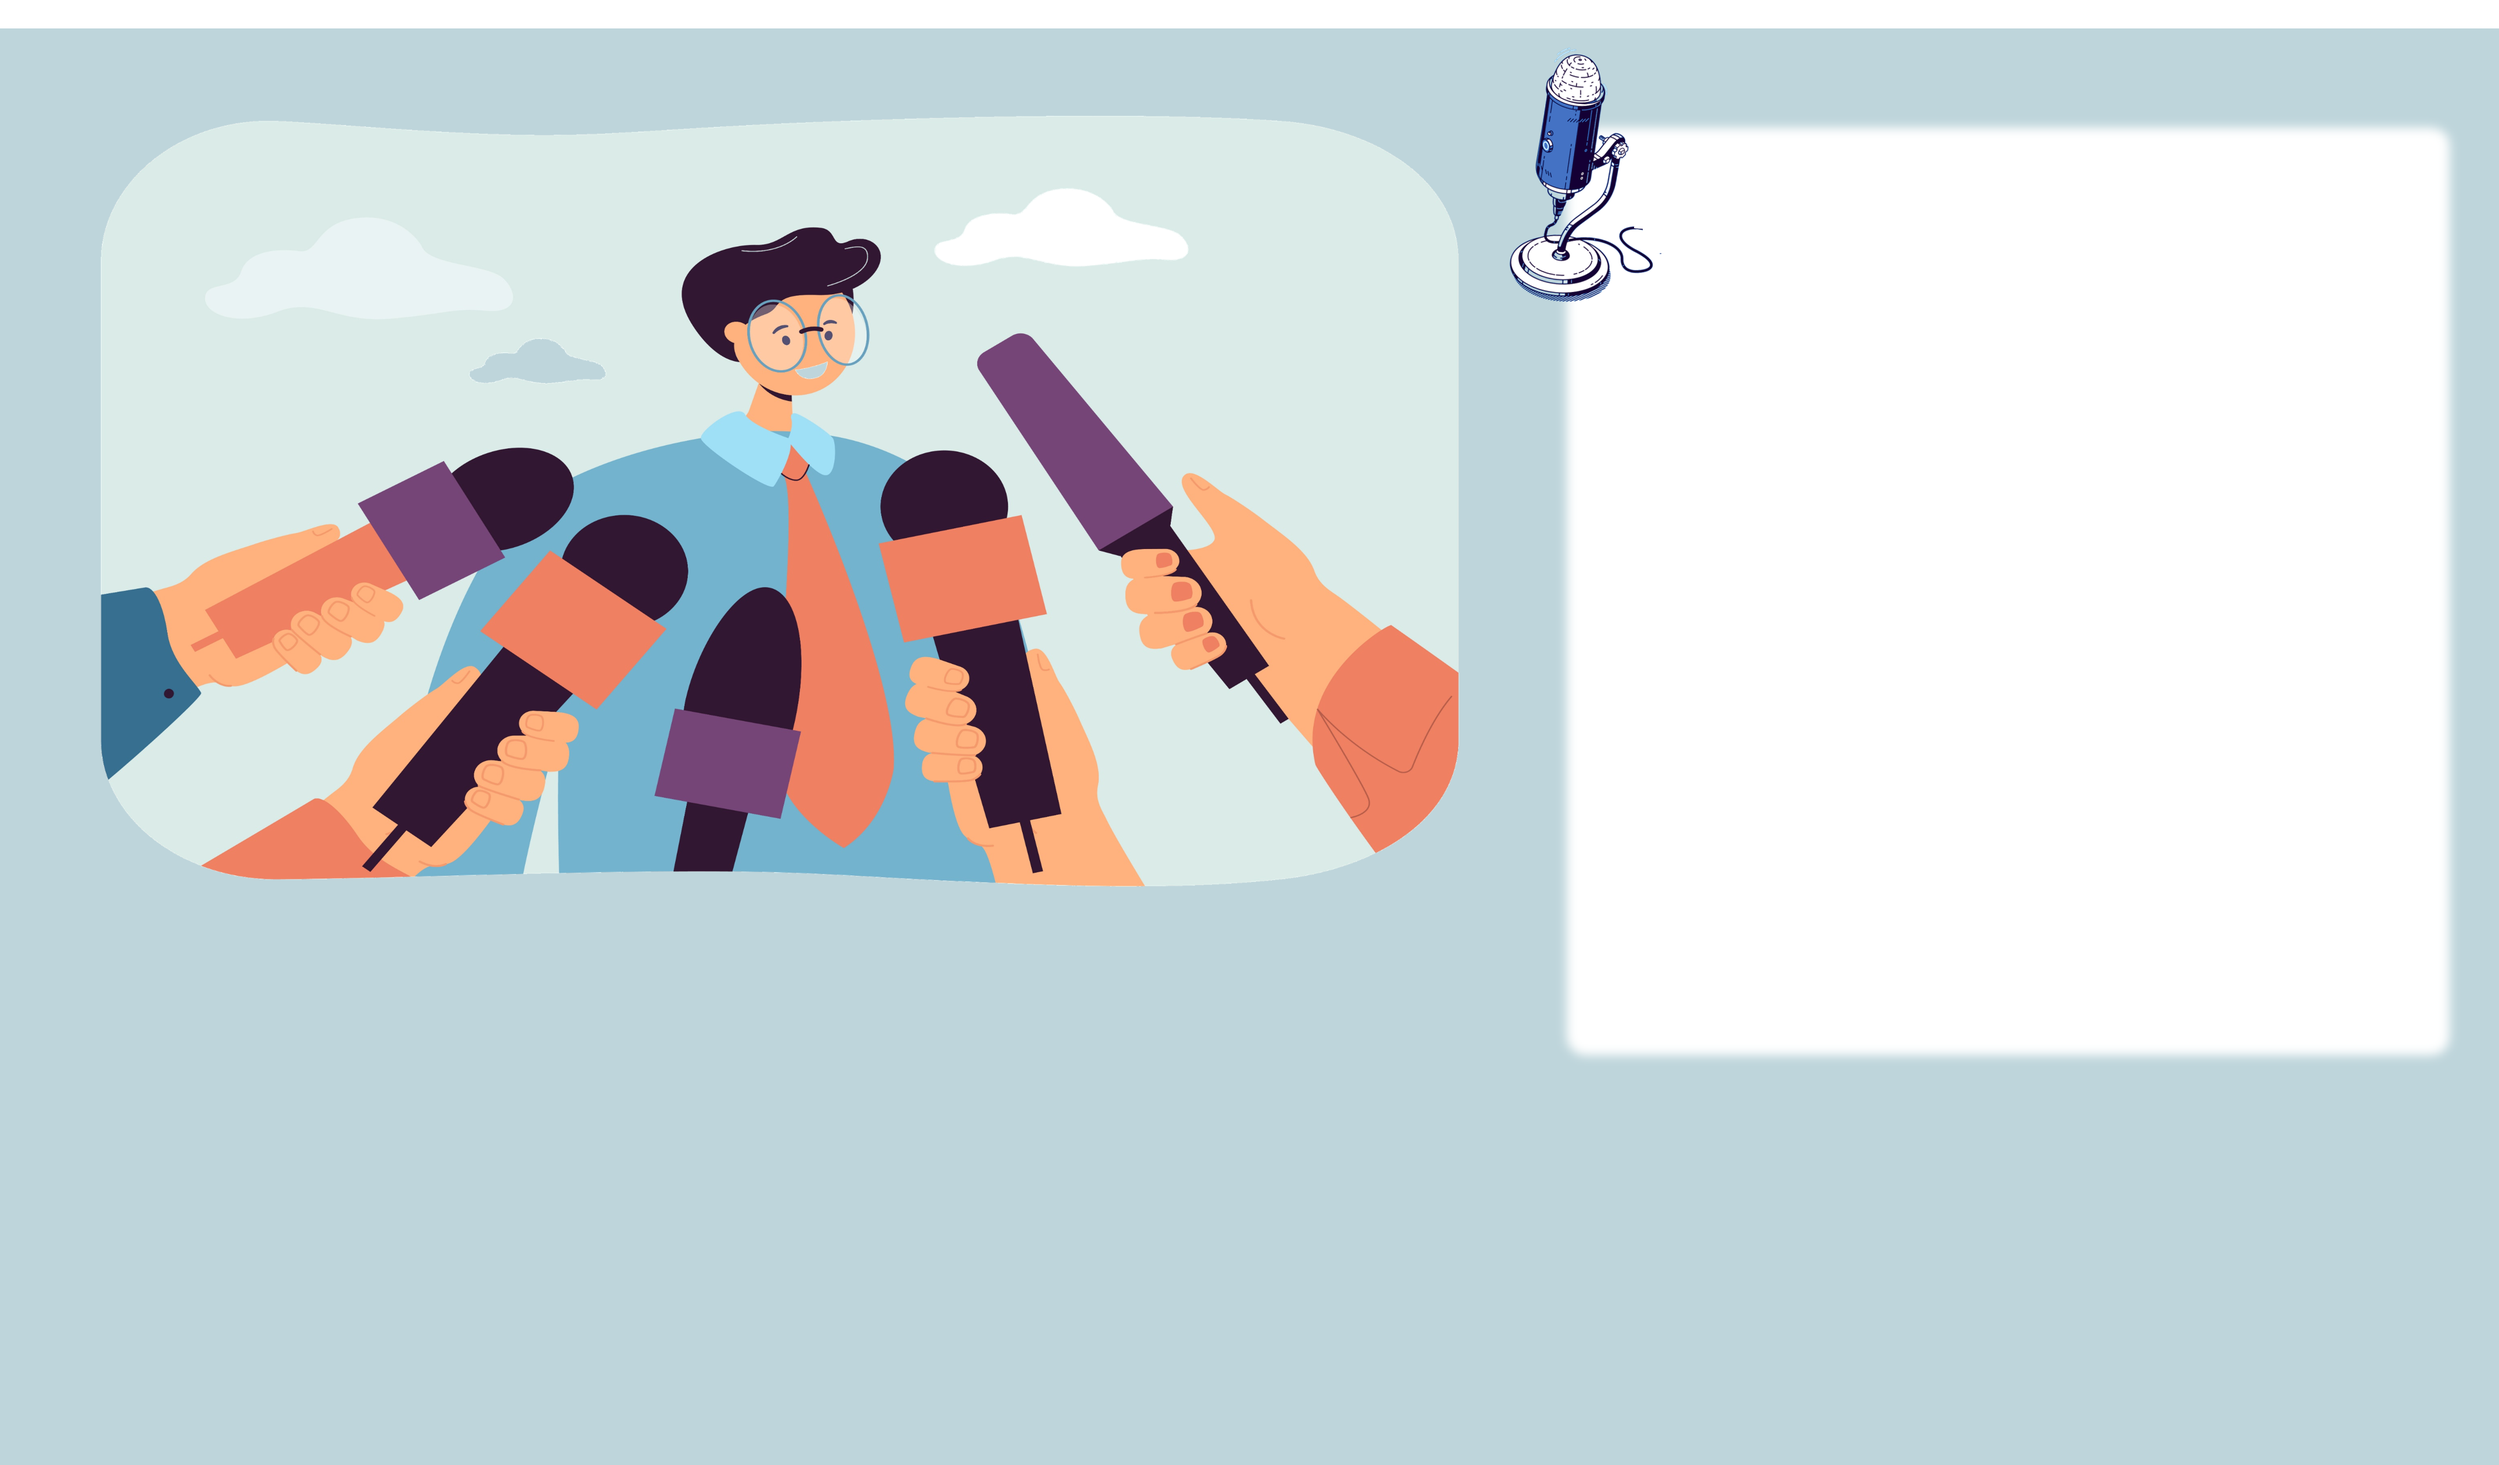
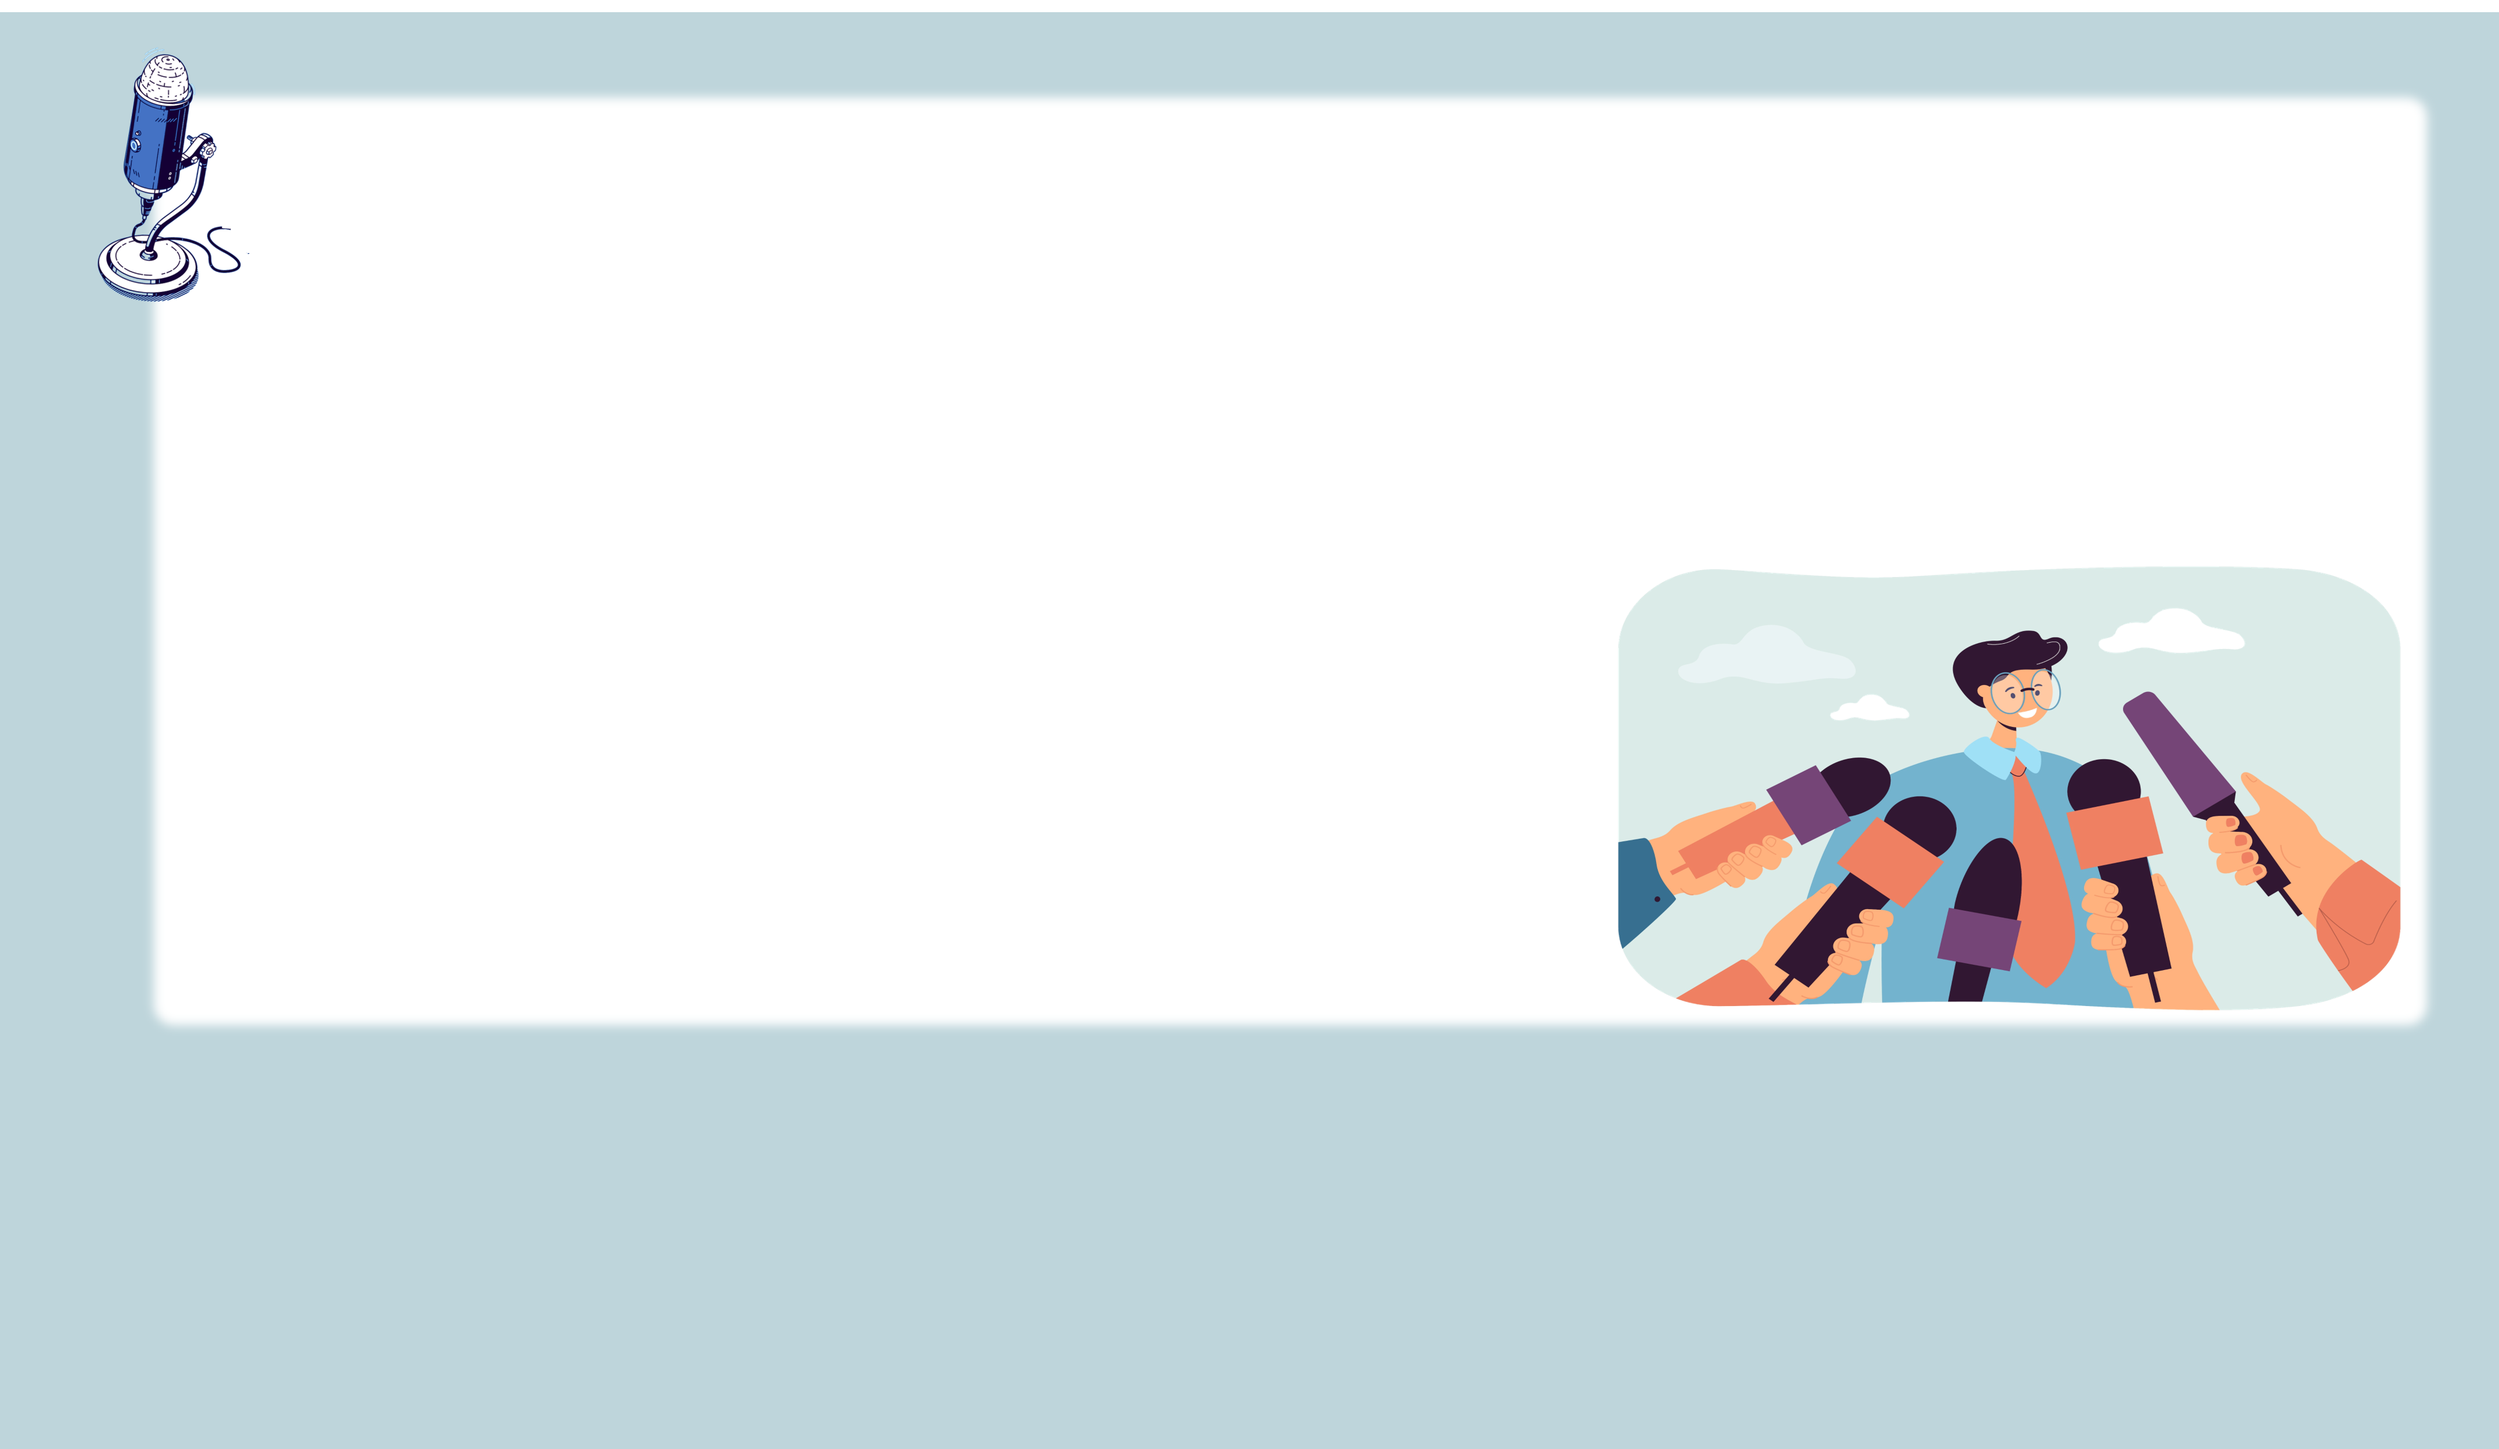
Update RepeatBG

diff --git a/Pronunciation_Final.py b/Pronunciation_Final.py
@@ -316,10 +316,10 @@ class SpeakPage():
         b=" "
         self.text.set(b)
         lb0 = tk.Label(self.SpeakPage,textvariable=self.text ,font=('microsoft yahei', '30'),bg='white')
-        lb0.grid(row=0, padx=1400, pady=300, sticky="nw")
+        lb0.grid(row=0, padx=200, pady=200, sticky="nw")
         #位置.
        
-        btn_t.grid(row=0,column=0, padx=200, pady=350, sticky="nw")
+        btn_t.grid(row=0,column=0, padx=0, pady=350, sticky="nw")
         
         #位置
        
